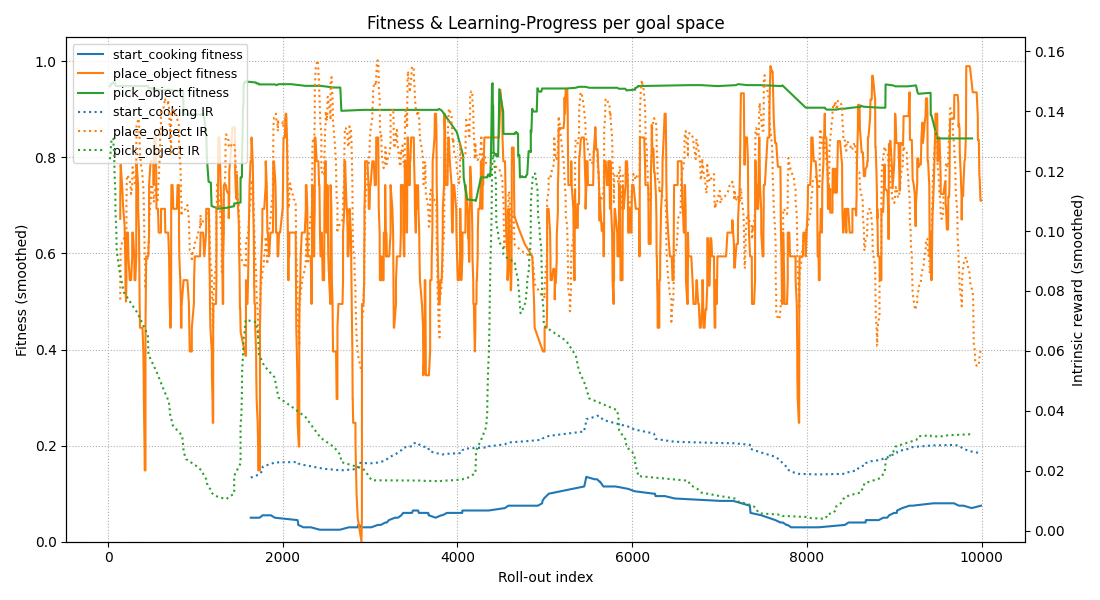
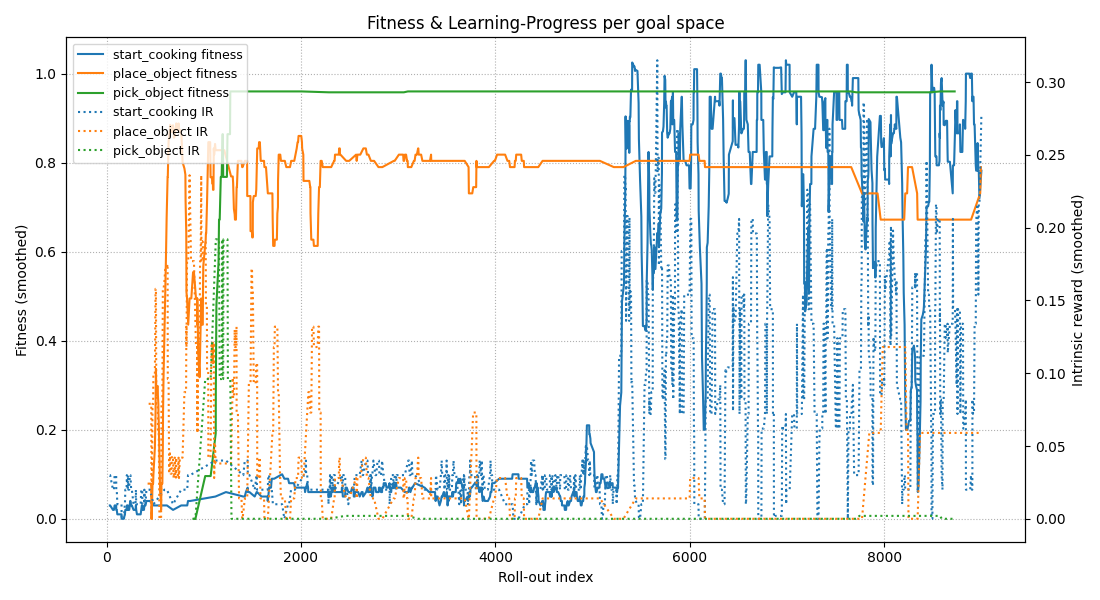
Improved goal spaces, added another try out room. Started with effectance implementation

diff --git a/imrl_agent_new/overcooked/agent.py b/imrl_agent_new/overcooked/agent.py
@@ -74,7 +74,6 @@ class IMGEPAgent(Agent):
 
         self.use_pi = (random.random() > 0.8)
 
-        # Get the last 100 policies from the knowledge base with goal space ID self.goal_space_id and goal_vec self.goal_vec
         relevant_policies = self.kb.nearest(
             self.goal_space_id, self.goal_vec, 100)
 
@@ -98,19 +97,14 @@ class IMGEPAgent(Agent):
     def action(self, state: OvercookedState):
         self.t += 1
 
-        if self.goal_reach_time_step is not None:
-            legal_actions = list(Action.MOTION_ACTIONS)
-            # Pick a random action from the legal actions
-            random_action = random.choice(legal_actions)
-            return random_action, {}
-
         gs = self.G[self.goal_space_id]
 
         if self.previous_state and gs.success(self.agent_id, self.goal_vec, state, self.previous_state,
                                               self.mdp) and self.goal_reach_time_step is None:
             self.goal_reach_time_step = self.t
             return Action.STAY, {}
-        if self.previous_state:
+
+        if self.previous_state and self.goal_reach_time_step is None:
             self.rollout_fitness += gs.fitness(
                 pick_step=self.goal_reach_time_step,
                 g=self.goal_vec,
@@ -154,7 +148,7 @@ class IMGEPAgent(Agent):
         return action, {}
 
     # ---------------------------------------------------------------- finish
-    def finish_rollout(self, final_state: OvercookedState, soups_delivered: int):
+    def finish_rollout(self, final_state: OvercookedState, start_state: OvercookedState):
         outcome = extract_outcome(final_state,
                                   final_state.players[self.agent_id],
                                   self.mdp)
@@ -170,18 +164,24 @@ class IMGEPAgent(Agent):
             mdp=self.mdp
         )
 
+        shared_effectance = self.get_shared_effectance(final_state, start_state)
+
         # intrinsic reward = Δ fitness vs nearest prior experiment
         if len(self.kb) == 0 or not self.parent_policy:
             prev_f = 0.0
         else:
-            nearest = self.kb.nearest(self.goal_space_id, self.goal_vec, 10, self.use_pi)
+            nearest = self.kb.nearest(self.goal_space_id, self.goal_vec, 1, self.use_pi)
             prev_f = np.mean([r.fitness for r in nearest]) if nearest else 0.0
 
-        r_i = max(0, self.rollout_fitness - prev_f)
+        r_i = max(0.0, self.rollout_fitness - prev_f)
 
         # Save the amount of records in the knowledge base based on the r_i
         # This follows the idea of neuro evolution where successful policies are recorded more often and bad policies are recorded less often
-        record_amount = int(max(1, 10 * r_i))
+        if self.use_pi:
+            record_amount = 1
+        else:
+            record_amount = max(1, int(10 * r_i))
+
         rollout_idx = self.kb.buffer[-1].rollout_idx + 1 if self.kb.buffer else 0
 
         if self.use_pi:
@@ -189,13 +189,12 @@ class IMGEPAgent(Agent):
 
         for _ in range(record_amount):
             self.kb.add_record(ExperimentRecord(
-                context=np.array([0]),
                 goal=self.goal_vec,
                 goal_space=self.goal_space_id,
-                theta=self.neuro_policy.theta,  # store network parameters
+                theta=self.neuro_policy.theta,
                 outcome=outcome,
                 fitness=self.rollout_fitness,
-                intrinsic_reward=self.bandit.ir_by_space[self.goal_space_id],
+                intrinsic_reward=r_i,
                 exploit=self.use_pi,
                 rollout_idx=rollout_idx,
             ))
@@ -225,4 +224,13 @@ class IMGEPAgent(Agent):
                 return self.mlam.start_cooking_actions(pots_object)
             case HighLevelActions.GO_COUNTER:
                 return self.mlam.place_obj_on_counter_actions(state)
+            case HighLevelActions.WAIT:
+                # If the agent is waiting, return an empty list to indicate no motion goals
+                return []
         return None
+
+    def get_shared_effectance(self, state: OvercookedState, start_state: OvercookedState) -> float:
+        # TODO work on this. Probably something with comparing the start_state and the current state
+        # TODO some stuff should return more than others, especially complicated actions like cooking or serving deserver higher actions
+        objects = state.all_objects_list
+        return 0.0

diff --git a/imrl_agent_new/core/goal_spaces.py b/imrl_agent_new/core/goal_spaces.py
@@ -5,9 +5,8 @@ from overcooked_ai_py.mdp.overcooked_mdp import ObjectState, OvercookedGridworld
 
 
 class GoalSpace:
-    def __init__(self, name, dim, sampler, fitness_fn, success_fn=None):
+    def __init__(self, name, sampler, fitness_fn, success_fn=None):
         self.name = name
-        self.dim = dim
         self.sample = sampler
         self.fitness = fitness_fn
         # if None, the space never triggers early stop
@@ -17,7 +16,7 @@ class GoalSpace:
 PICKABLE_OBJECTS = [
     ItemCode.ONION,
     # ItemCode.TOMATO,
-    ItemCode.DISH,
+    # ItemCode.DISH,
 ]
 
 
@@ -39,9 +38,9 @@ def make_pick_object_space(length_of_trajectory: int) -> GoalSpace:
         held = item_to_int(player.get_object()) if player.has_object() else 0
         if held == int(g) and not previous_state.players[agent_id].has_object():
             return True
-        return None
+        return False
 
-    return GoalSpace("PICK_OBJECT", 1, sampler=sampler, fitness_fn=fitness, success_fn=success)
+    return GoalSpace("PICK_OBJECT", sampler=sampler, fitness_fn=fitness, success_fn=success)
 
 
 def place_object_space(length_of_trajectory: int) -> GoalSpace:
@@ -52,30 +51,33 @@ def place_object_space(length_of_trajectory: int) -> GoalSpace:
 
     def fitness(pick_step: int, g: int, end_of_episode: bool, state: OvercookedState, previous_state: OvercookedState,
                 agent_id: int, mdp: OvercookedGridworld):
+        if make_pick_object_space(length_of_trajectory).success(agent_id, g, state, previous_state, mdp):
+            # The agent has picked up an onion
+            return 0.2
         if pick_step is None:
             return 0.0
-        return 1.0 - (pick_step / max(length_of_trajectory, 1))  # fast = high
+        return 1.0 - (pick_step / max(length_of_trajectory, 1)) - 0.2  # Subtract 0.2 for picking up the object
 
     def success(agent_id: int, g: int, state: OvercookedState, previous_state: OvercookedState,
                 mdp: OvercookedGridworld):
-        current_agent = state.players[agent_id]
+        current_agent: PlayerState = state.players[agent_id]
         previous_agent: PlayerState = previous_state.players[agent_id]
         previous_held: ObjectState = previous_agent.held_object if previous_agent.has_object() else 0
         current_held: ObjectState = current_agent.held_object if current_agent.has_object() else 0
         if not previous_held or current_held or item_to_int(
                 previous_held) != g:  # The agent did not hold the correct object or is still holding it
-            return None
+            return False
         # At this point, the agent held the correct object and is not holding it anymore
         pot_locations = mdp.get_pot_locations()
         for index, pot in enumerate(pot_locations):
-            previous_pot = state.get_object(pot) if state.has_object(pot) else None
-            current_pot = previous_state.get_object(pot) if previous_state.has_object(pot) else None
+            current_pot = state.get_object(pot) if state.has_object(pot) else None
+            previous_pot = previous_state.get_object(pot) if previous_state.has_object(pot) else None
             if previous_pot != current_pot:
                 # The agent placed the object in the pot
                 return True
         return False
 
-    return GoalSpace("PLACE_OBJECT", 1, sampler=sampler, fitness_fn=fitness, success_fn=success)
+    return GoalSpace("PLACE_OBJECT", sampler=sampler, fitness_fn=fitness, success_fn=success)
 
 
 def start_cooking_space(length_of_trajectory: int) -> GoalSpace:
@@ -131,7 +133,7 @@ def start_cooking_space(length_of_trajectory: int) -> GoalSpace:
                 return True
         return False
 
-    return GoalSpace("START_COOKING", 1, sampler=sampler, fitness_fn=fitness, success_fn=success)
+    return GoalSpace("START_COOKING", sampler=sampler, fitness_fn=fitness, success_fn=success)
 
 
 def pickup_soup_space(length_of_trajectory: int) -> GoalSpace:
@@ -151,7 +153,7 @@ def pickup_soup_space(length_of_trajectory: int) -> GoalSpace:
             return True
         return None
 
-    return GoalSpace("PICKUP_SOUP", 1, sampler=sampler, fitness_fn=fitness, success_fn=success)
+    return GoalSpace("PICKUP_SOUP", sampler=sampler, fitness_fn=fitness, success_fn=success)
 
 
 def create_goal_space(length_of_trajectory):

diff --git a/imrl_agent_new/visualise/stats/visualise.py b/imrl_agent_new/visualise/stats/visualise.py
@@ -73,7 +73,6 @@ def plot_fitness(records, output_path, smoothing_window):
     ax_f.set_xlabel("Roll-out index")
     ax_f.set_ylabel("Fitness (smoothed)")
     ax_ir.set_ylabel("Intrinsic reward (smoothed)")
-    ax_f.set_ylim(0, 1.05)
     ax_f.set_title("Fitness & Learning-Progress per goal space")
     ax_f.grid(True, which="both", linestyle=":")
 
@@ -130,7 +129,6 @@ def plot_goalspace_distribution(records, output_path, smoothing_window):
     plt.title("Goal-space rollout distribution over time")
     plt.xlabel("Roll-out index")
     plt.ylabel("Proportion (smoothed)")
-    plt.ylim(0, 1.0)
     plt.grid(True, linestyle=":")
     plt.legend(title="Goal Space", loc="upper right")
     plt.tight_layout()
@@ -145,8 +143,8 @@ def make_graphs():
         if os.path.exists(path):
             print(f"✅ Found {path}")
             records = load_records(path)
-            plot_fitness(records, f"visualise/stats/fitness_plot_{ag}.png", 20)
-            plot_goalspace_distribution(records, f"visualise/stats/goalspace_dist_{ag}.png", 20)
+            plot_fitness(records, f"visualise/stats/fitness_plot_{ag}.png", 10)
+            plot_goalspace_distribution(records, f"visualise/stats/goalspace_dist_{ag}.png", 10)
             get_statistics(path)
         else:
             print(f"❌ Could not find {path}")

diff --git a/imrl_agent_new/demo_eval.py b/imrl_agent_new/demo_eval.py
@@ -11,7 +11,7 @@ from overcooked_ai_py.mdp.overcooked_mdp import OvercookedGridworld
 
 # ---------------------------------------------------------------- settings
 # 17, 18, 20,
-layout_name       = layouts[20]          # any layout string
+layout_name = layouts[21]  # any layout string
 
 # ---------------------------------------------------------------- env + agents
 mdp: OvercookedGridworld = OvercookedGridworld.from_layout_name(layout_name)
@@ -33,11 +33,11 @@ base_params = {
 }
 
 agents = [IMGEPAgent(env, mdp, agent_id, horizon=HORIZON, max_dist=max_dist) for agent_id in range(2)]
-# for ag in agents: ag.kb.load_buffer("kb/buffer_rollouts" + str(ag.agent_id) + ".pkl")
+for ag in agents: ag.kb.load_buffer("kb/buffer_rollouts" + str(ag.agent_id) + ".pkl")
 # ---------------------------------------------------------------- run one roll-out
 state = env.reset()
 
-ROLL_OUTS = 10000
+ROLL_OUTS = 3000
 
 for roll in range(ROLL_OUTS):
     print(roll)
@@ -56,7 +56,7 @@ for roll in range(ROLL_OUTS):
 
     # -------- finish roll-out bookkeeping -------------------------------
     for ag in agents:
-        ag.finish_rollout(state, 0)
+        ag.finish_rollout(state, ep_states[0])
 
     if roll == ROLL_OUTS - 1:
         create_gif(ep_states, mdp, roll, True)

diff --git a/imrl_agent_new/core/knowledge_base.py b/imrl_agent_new/core/knowledge_base.py
@@ -12,7 +12,6 @@ import numpy as np
 @dataclass
 class ExperimentRecord:
     # High-level information
-    context: np.ndarray  # shape = (C,), holds the context in which the policy was used
     goal: int  # shape = (G,), the goal to reach using the policy
     goal_space: str  # goal space ID, e.g., "PLACE_OBJECT", "PICK_OBJECT", etc.
     theta: np.ndarray  # policy params you executed

diff --git a/imrl_agent_new/core/neuro_policy.py b/imrl_agent_new/core/neuro_policy.py
@@ -13,8 +13,8 @@ class NeuroPolicy:
     def __init__(self, theta: np.ndarray | None = None):
 
         self.inp_dim = 15  # from obs_to_vec()
-        self.hidden_dim = 12
-        self.num_tokens = 9
+        self.hidden_dim = 14
+        self.num_tokens = 10
 
         if theta is None:  # fresh initialization
             W1 = he_init(self.inp_dim, self.hidden_dim)

diff --git a/imrl_agent_new/helper/high_level_actions.py b/imrl_agent_new/helper/high_level_actions.py
@@ -2,4 +2,5 @@ from enum import IntEnum
 
 
 class HighLevelActions(IntEnum):
-    GO_ONION, GO_TOMATO, GO_DISH, PUT_ONION, PUT_TOMATO, GO_READY_POT, GO_SERVE, START_COOKING, GO_COUNTER = range(9)
+    GO_ONION, GO_TOMATO, GO_DISH, PUT_ONION, PUT_TOMATO, GO_READY_POT, GO_SERVE, START_COOKING, GO_COUNTER, WAIT = range(
+        10)

diff --git a/src/overcooked_ai_py/data/layouts/layouts.py b/src/overcooked_ai_py/data/layouts/layouts.py
@@ -20,6 +20,7 @@ layouts = [
     "forced_coordination_tomato",
     "inverse_marshmallow_experiment",
     "large_room",
+    "separate_room",
     "long_cook_time",
     "m_shaped_s",
     "marshmallow_experiment",
